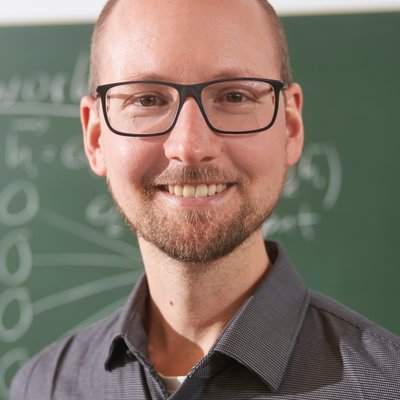
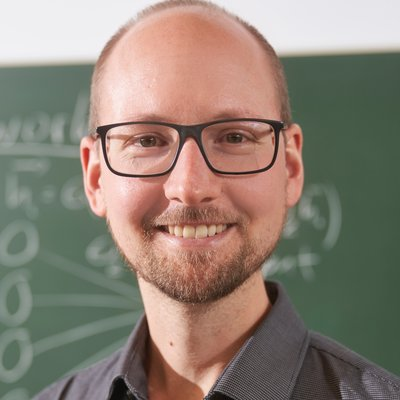
Collapsible abstracts; Pascal photo crop, role and bio; Prof Sam Cooper; new MAESTRO title

diff --git a/site/css/style.css b/site/css/style.css
@@ -127,7 +127,7 @@ section:last-of-type { border-bottom: 0; }
   opacity: 0; visibility: hidden; transition: opacity .2s ease, visibility .2s ease;
 }
 .person .person-back p { color: var(--fg); font-size: .92rem; line-height: 1.5; }
-@media (max-width: 719px) { .person-back { padding: .9rem; gap: .6rem; } .person .person-back p { font-size: .82rem; line-height: 1.45; } }
+@media (max-width: 719px) { .person-back { padding: .7rem .75rem; gap: .5rem; } .person .person-back p { font-size: .82rem; line-height: 1.4; } }
 .person.has-back:hover, .person.has-back:focus-within { transform: translateY(-3px); box-shadow: 0 12px 26px rgba(0, 0, 0, .1); }
 .person.has-back:hover .person-back, .person.has-back:focus-within .person-back { opacity: 1; visibility: visible; }
 .person p { margin: 0; color: var(--muted); font-size: .92rem; line-height: 1.4; }
@@ -176,6 +176,20 @@ section:last-of-type { border-bottom: 0; }
 .slot-break { background: var(--panel); padding-block: .85rem; }
 .slot-block .abstract { font-style: italic; color: var(--muted); }  /* talk block whose speakers are not yet confirmed */
 .slot.tba h3 { color: var(--muted); font-weight: 600; font-style: italic; }
+/* Talk abstracts: collapsed under an "Abstract" label; expand on row hover (mouse) or when the label is tapped */
+.abstract-toggle {
+  display: inline-flex; align-items: center; gap: .25rem; margin-top: .6rem; padding: 0;
+  border: 0; background: none; cursor: pointer; font: inherit; font-size: .9rem; font-weight: 600; color: var(--accent-ink);
+}
+.abstract-toggle svg { width: 16px; height: 16px; transition: transform .2s ease; }
+.abstract-wrap { display: grid; grid-template-rows: 0fr; transition: grid-template-rows .3s ease; }
+.abstract-wrap > div { min-height: 0; overflow: hidden; }
+.slot.expanded .abstract-wrap { grid-template-rows: 1fr; }
+.slot.expanded .abstract-toggle svg { transform: rotate(180deg); }
+@media (hover: hover) {
+  .slot:hover .abstract-wrap { grid-template-rows: 1fr; }
+  .slot:hover .abstract-toggle svg { transform: rotate(180deg); }
+}
 .abstract { margin: .5rem 0 0; color: #4b5563; font-size: .95rem; max-width: 75ch; }
 
 .speaker-chips { display: flex; flex-wrap: wrap; gap: .5rem 1.25rem; margin-top: .7rem; }

diff --git a/site/js/main.js b/site/js/main.js
@@ -81,7 +81,8 @@ function renderAgenda({ start, talkMinutes, items }, people) {
       <div>
         <h3>${esc(item.title || "To be announced soon")}</h3>
         <div class="speaker-chips">${chips}</div>
-        ${item.abstract ? `<p class="abstract">${richText(item.abstract)}</p>` : ""}
+        ${item.abstract ? `<button type="button" class="abstract-toggle" aria-expanded="false">Abstract <svg viewBox="0 0 24 24" aria-hidden="true"><path d="m6 9 6 6 6-6"/></svg></button>
+        <div class="abstract-wrap"><div><p class="abstract">${richText(item.abstract)}</p></div></div>` : ""}
       </div>
     </li>`;
   }).join("");
@@ -122,6 +123,12 @@ function linkAgendaToSpeakers() {
   const agenda = document.getElementById("agenda-list");
   agenda.addEventListener("click", (e) => {
     if (e.target.closest(".abstract a")) return; // reference links in abstracts open normally
+    const toggle = e.target.closest(".abstract-toggle");
+    if (toggle) { // show/hide the abstract (the only way to open it on touch screens)
+      const open = toggle.closest(".slot").classList.toggle("expanded");
+      toggle.setAttribute("aria-expanded", String(open));
+      return;
+    }
     const chip = e.target.closest("a.chip");
     const row = e.target.closest(".slot-link");
     if (!chip && !row) return;
